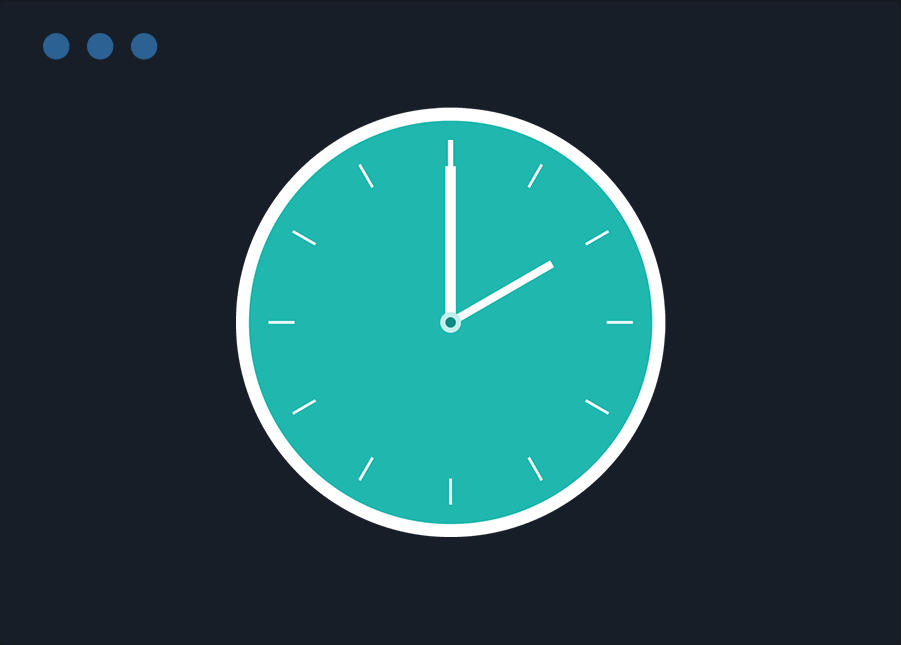
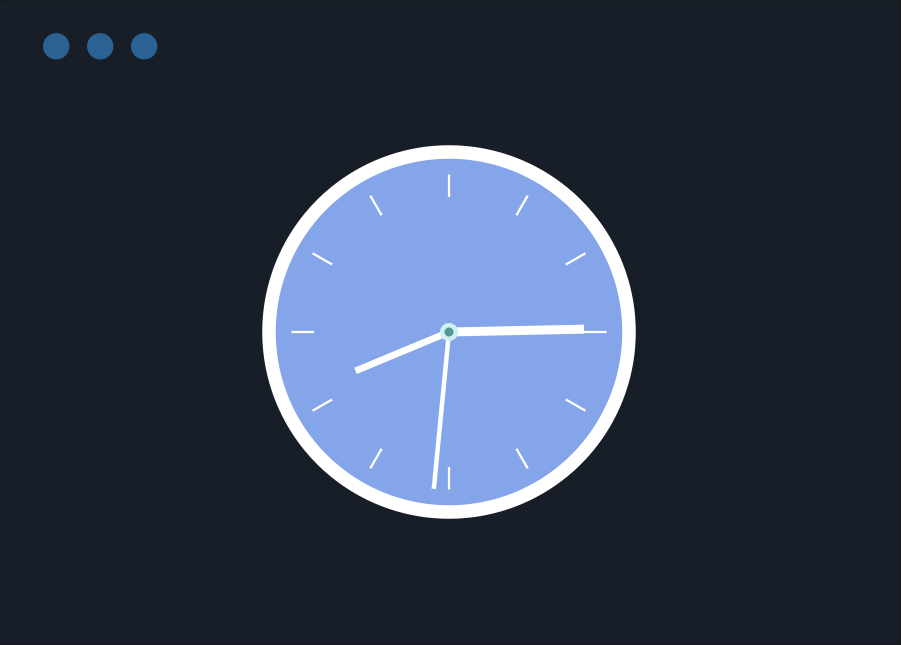
perf: 优化 lock

Changed region(s): [[0.2486, 0.155, 0.7458, 0.8372]]

diff --git a/src/packages/components/Decorates/Decorates/Decorates06/index.ts b/src/packages/components/Decorates/Decorates/Decorates06/index.ts
@@ -1,5 +1,5 @@
 import image from '@/assets/images/chart/decorates/decorates06.png'
-import { ConfigType, PackagesCategoryEnum } from '@/packages/index.d'
+import { ConfigType, PackagesCategoryEnum, ChartFrameEnum } from '@/packages/index.d'
 import { ChatCategoryEnum, ChatCategoryEnumName } from '../../index.d'
 
 export const Decorates06Config: ConfigType = {
@@ -10,5 +10,6 @@ export const Decorates06Config: ConfigType = {
   category: ChatCategoryEnum.DECORATE,
   categoryName: ChatCategoryEnumName.DECORATE,
   package: PackagesCategoryEnum.DECORATES,
+  chartFrame: ChartFrameEnum.COMMON,
   image
 }

diff --git a/src/packages/components/Decorates/Mores/Clock/index.ts b/src/packages/components/Decorates/Mores/Clock/index.ts
@@ -1,5 +1,5 @@
 import image from '@/assets/images/chart/decorates/clock.png'
-import { ConfigType, PackagesCategoryEnum } from '@/packages/index.d'
+import { ConfigType, PackagesCategoryEnum, ChartFrameEnum } from '@/packages/index.d'
 import { ChatCategoryEnum, ChatCategoryEnumName } from '../../index.d'
 
 export const ClockConfig: ConfigType = {
@@ -10,5 +10,6 @@ export const ClockConfig: ConfigType = {
   category: ChatCategoryEnum.MORE,
   categoryName: ChatCategoryEnumName.MORE,
   package: PackagesCategoryEnum.DECORATES,
+  chartFrame: ChartFrameEnum.STATIC,
   image
 }

diff --git a/src/packages/components/Decorates/Mores/Clock/config.ts b/src/packages/components/Decorates/Mores/Clock/config.ts
@@ -6,7 +6,7 @@ import cloneDeep from 'lodash/cloneDeep'
 export const option = {
   border: 6,
   color: '#ffffff',
-  bgColor: '#20b7af',
+  bgColor: '#84a5e9',
   borderColor: '#ffffff'
 }
 
